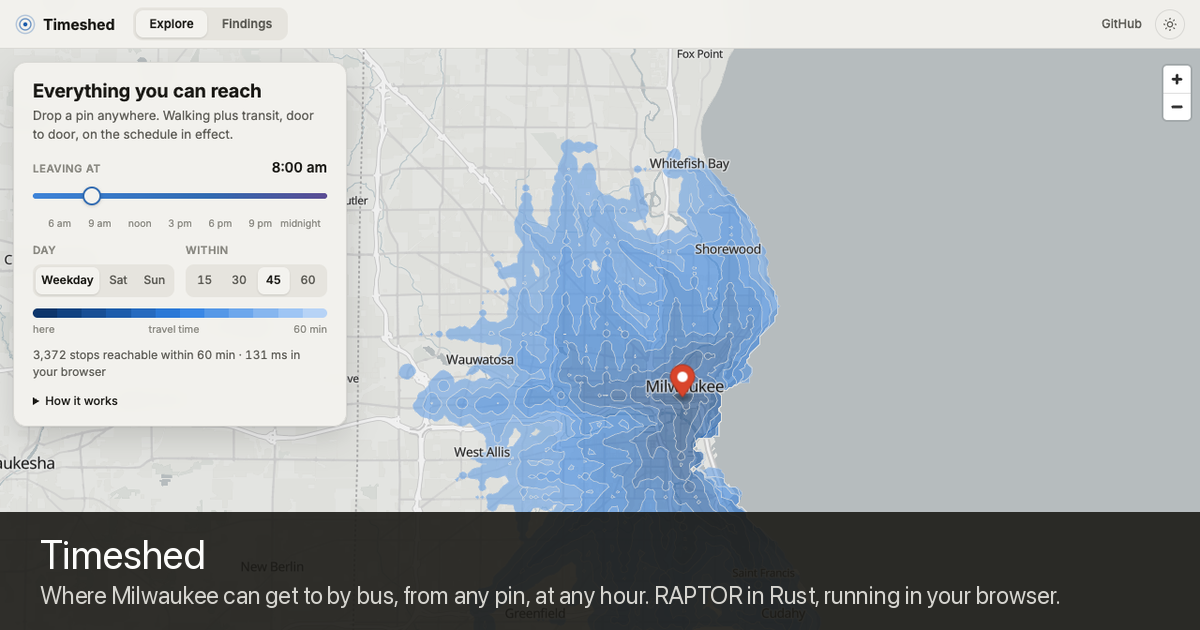
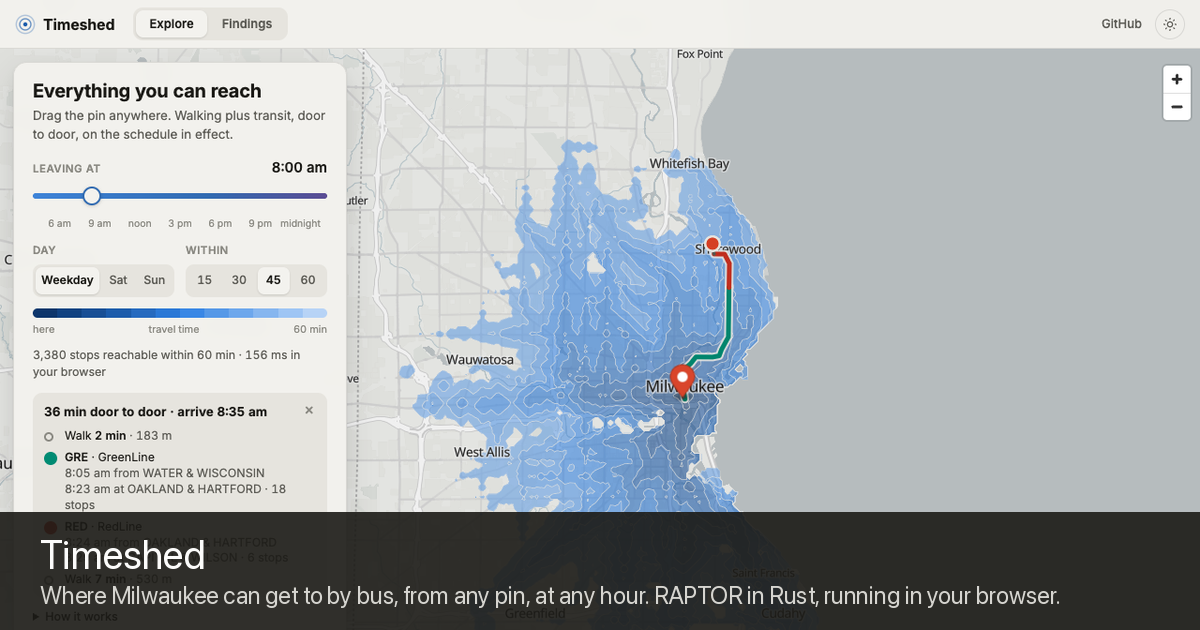
README hero shows a journey; mention the click-to-trip in Try it

diff --git a/README.md b/README.md
@@ -12,11 +12,12 @@ OpenStreetMap, so a query covers walking to the stop, riding, transferring and w
 to the door. It routes on the timetable itself rather than on average frequencies,
 so leaving at 8 am and leaving at 11 pm give different shapes.
 
-![Live map: 45 minutes from downtown Milwaukee at 8 am on a weekday](docs/figures/live_map.png)
+![Live map: 45 minutes from downtown Milwaukee at 8 am on a weekday, and the journey to a point in Shorewood: the Green Line, a transfer to the Red Line, two short walks](docs/figures/live_map.png)
 
-**Try it:** <https://timeshed.frankbs.dev/>. The engine is compiled to WebAssembly and
-runs in your browser; the page downloads the county's schedule and walking network
-once (7 MB) and answers each drag in about 140 ms with no server involved. The
+**Try it:** <https://timeshed.frankbs.dev/>. Drag the pin, scrub the time of day,
+and click anywhere to see how you'd get there. The engine is compiled to WebAssembly
+and runs in your browser; the page downloads the county's schedule and walking network
+once (7 MB) and answers each drag in about 160 ms with no server involved. The
 Findings tab holds the analysis below, block by block.
 
 Everything is built from two free sources: the [MCTS GTFS feed](https://kamino.mcts.org/gtfs/google_transit.zip)
@@ -191,7 +192,7 @@ from 68% to 86%.
 | Door-to-door query, 45-minute budget | ~13 ms |
 | 60-minute isochrone: 21 ms routing + 41 ms of bands, as GeoJSON | ~60 ms |
 | Batch: 10,690 origins × 12 departures | ~110 s |
-| Same 60-minute isochrone, WebAssembly in Brave, including drawing | ~140 ms |
+| Same 60-minute isochrone, WebAssembly in Brave, including drawing | ~160 ms |
 
 ## Running it
 
